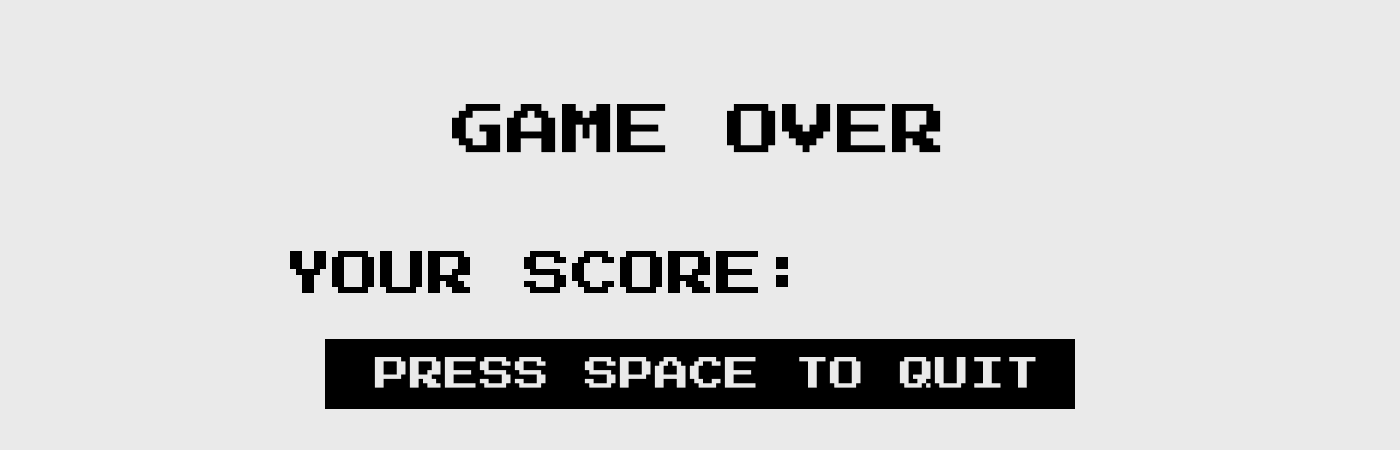
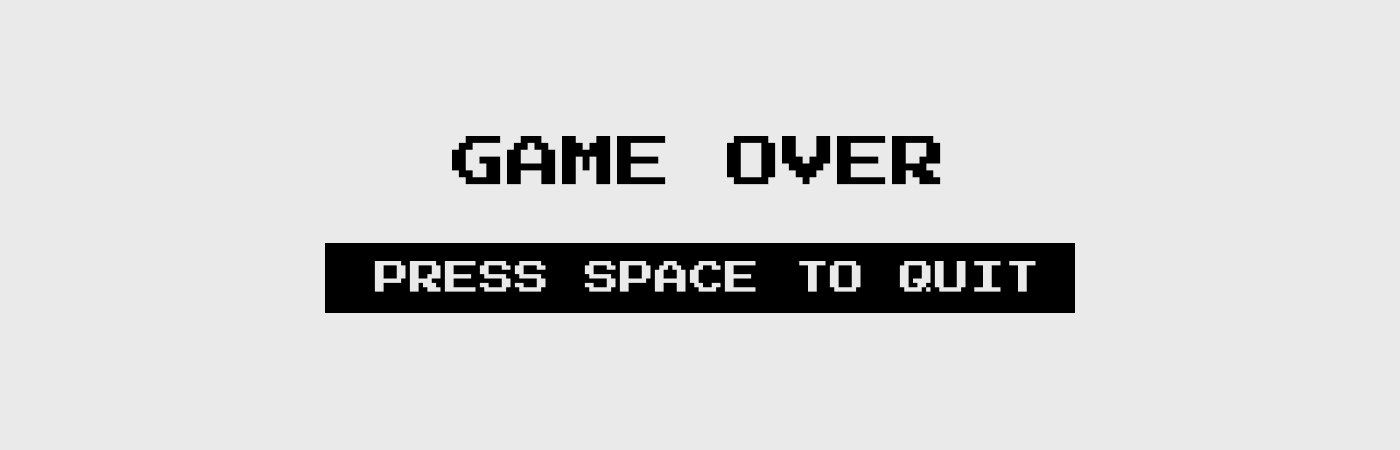
point, ending finished

diff --git a/scene.c b/scene.c
@@ -8,8 +8,10 @@ ALLEGRO_BITMAP *img_catus1 = NULL;
 ALLEGRO_BITMAP *img_catus2 = NULL;
 ALLEGRO_BITMAP *img_floor = NULL;
 ALLEGRO_BITMAP *img_end = NULL;
+ALLEGRO_BITMAP *img_win = NULL;
 ALLEGRO_TIMER *timer;
-
+ALLEGRO_FONT *font_game = NULL;
+ALLEGRO_FONT *font_end = NULL;
 // ALLEGRO_TIMER *timer;
 
 // menu and info
@@ -18,6 +20,7 @@ void menu_init()
     printf("menu init\n");
     img_menu = al_load_bitmap("./asset/menu.png");
     img_info = al_load_bitmap("./asset/information.png");
+    font_game = al_load_font("./font/PressStart.ttf", 24, 0);
 }
 
 void menu_draw()
@@ -51,8 +54,6 @@ void start_game_process(ALLEGRO_EVENT event)
 }
 
 
-
-
 // game scene(floor, cloud, catus, (dino))
 void game_scene_init(){
     printf("game scene init\n");
@@ -72,6 +73,8 @@ void game_scene_draw(){
     // al_draw_bitmap(img_floor, 0, 300, 0);
     // al_draw_bitmap(img_catus1, 700, 300-99, 0);
     // al_draw_bitmap(img_catus2, 800, 300-99, 0);
+    al_draw_textf(font_game, al_map_rgb(83, 83, 83), 1300, 50, ALLEGRO_ALIGN_RIGHT, "score: %d" , score );
+    score++;
     DrawBackground(&FLOOR);
     DrawBackground(&C1);
     DrawBackground(&C2);
@@ -109,10 +112,19 @@ void DrawBackground(struct Background *back){
 // game over window
 void end_game_init(){
     img_end = al_load_bitmap("./asset/game_over.png");
+    img_win = al_load_bitmap("./asset/win.png");
+    font_end = al_load_font("./font/PressStart.ttf", 70, 0);
 }
 
 void end_game_draw(){
     al_draw_bitmap(img_end, 0, 0, 0);
+   // printf("%d", score);
+    //al_draw_textf(font_game, al_map_rgb(83, 83, 83), 1000, 100, ALLEGRO_ALIGN_CENTRE, "score: %d" , score );
+}
+void win_game_draw(){
+    al_draw_bitmap(img_win, 0, 0, 0);
+   // printf("%d", score);
+    //al_draw_textf(font_game, al_map_rgb(83, 83, 83), 1000, 100, ALLEGRO_ALIGN_CENTRE, "score: %d" , score );
 }
 
 void end_game_process(ALLEGRO_EVENT event)
@@ -143,10 +155,12 @@ void game_scene_destroy(){
     al_destroy_bitmap(img_floor);
     al_destroy_bitmap(img_cloud1);
     al_destroy_bitmap(img_cloud2);
+    al_destroy_font(font_game);
     // dino_destroy();
 }
 
 void end_scene_destroy(){
     al_destroy_bitmap(img_end);
+    al_destroy_font(font_end);
     printf("end scene destroy\n");
 }

diff --git a/GameWindow.c b/GameWindow.c
@@ -2,6 +2,7 @@
 
 bool draw = false;
 int window = 1;
+int status = 0;
 // window 1 = menu
 // window 2 = info
 // window 3 = game
@@ -108,8 +109,13 @@ int process_event(){
         //end_game_process(event);
         //*************************************************************
         dino_process(event);
+    }if(window == 4){
+        if (event.type == ALLEGRO_EVENT_KEY_UP){
+            if (event.keyboard.keycode == ALLEGRO_KEY_SPACE){
+                return GAME_TERMINATE;
+            }
+        }
     }
-
 
     // Shutdown our program
     if(event.type == ALLEGRO_EVENT_DISPLAY_CLOSE){
@@ -117,14 +123,17 @@ int process_event(){
     }
 
     else if(event.type == ALLEGRO_EVENT_TIMER){
-        if(event.timer.source == fps) draw = true;
+        if(event.timer.source == fps){
+            draw = true;
+        } 
         UpdateBackground(&FLOOR);
         UpdateBackground(&C1);
         UpdateBackground(&C2);
         cactus_start(cactus, NUM_CACTUS);
         cactus_update(cactus, NUM_CACTUS);
-        cactus_collide(cactus, NUM_CACTUS, &dino);
+        cactus_collide(cactus, NUM_CACTUS);
 		render = true;
+
     }
 
     if(draw) game_update();
@@ -161,11 +170,9 @@ void game_update(){
             judge_to_info = false;
             window = 3;
         }
-
     }
     if(judge_to_end){
         if( window == 3){
-
             judge_to_end = false;
             game_scene_destroy();
             cactus_destroy();
@@ -174,9 +181,15 @@ void game_update(){
         }
     }
     if(window==3){
-            dino_update();
-
+        dino_update();
+        if(dino.life == 1 && score >= LEVEL) {
+            end_game_init();
+            game_scene_destroy();
+            cactus_destroy();
+            window  = 4;
+            status = 1;
         }
+    }
 }
 
 void game_draw(){
@@ -197,7 +210,8 @@ void game_draw(){
         //printf("show game\n");
     }else if( window == 4 ){
         // printf("show game\n");
-        end_game_draw();
+        if(status) win_game_draw();
+        else end_game_draw();
         al_flip_display();
     }
 

diff --git a/character.c b/character.c
@@ -31,8 +31,14 @@ void cactus_init(struct Cactus *c, int size, ALLEGRO_BITMAP *img1, ALLEGRO_BITMA
 		c[i].speed = 5;
 		c[i].boundy_x = 18;
 		c[i].boundy_y = 18;
-        if(i%2) c[i].image = img1;
-        else c[i].image = img2;
+        if(i%2) {
+			c[i].type = 1;
+			c[i].image = img1;
+		}
+        else {
+			c[i].image = img2;
+			c[i].type =0;
+		}
         // printf("%p\n", c[i].image);
 	}
 }
@@ -54,7 +60,11 @@ void cactus_start(struct Cactus *c, int size){
 			{
 				c[i].live = true;
 				c[i].x = WIDTH;
-				c[i].y = 300-90;
+				if(c[i].type){
+					c[i].y = 300-65;
+				}else{
+					c[i].y = 300-85;
+				}
                 //printf("%d\n", c[i].x);
                 //printf("%d\n", c[i].y);
 				break;
@@ -77,7 +87,7 @@ void cactus_collide(struct Cactus *c, int size){
     for(int i = 0; i < size; i++){
 		if(c[i].live)
 		{
-			if(c[i].x - dino.x < dino.boundy_x && c[i].y < dino.y)
+			if(c[i].x -10 <  dino.width && 300-al_get_bitmap_height(c[i].image) < dino.y+dino.height&& c[i].x+al_get_bitmap_width(c[i].image)< 5)
 				// c[i].x + c[i].boundy_x > p[i].boundy_x &&
 				// c[i].y - c[i].boundy_y < p[i].y + p[i].boundy_y &&
 				// c[i].y + c[i].boundy_y > p[i].y - p[i].boundy_y)

diff --git a/global.h b/global.h
@@ -15,11 +15,14 @@
 extern const float FPS;
 extern const int WIDTH;
 extern const int HEIGHT;
+extern int score;
+extern int LEVEL;
 //extern const int NUM_CATUS;
 extern bool key_state[ALLEGRO_KEY_MAX];
 extern bool judge_to_game;
 extern bool judge_to_info;
 extern bool judge_to_end;
+extern bool judge_to_finished_game;
 extern bool render;
 struct Background{
 	float x;
@@ -47,6 +50,7 @@ struct Cactus{
 	int speed;
 	int boundy_x;
 	int boundy_y;
+	int type;
 	ALLEGRO_BITMAP *image;
 };
 extern struct Cactus cactus[NUM_CACTUS];

diff --git a/global.c b/global.c
@@ -1,6 +1,7 @@
 #include "global.h"
 
 // variables for global usage
+enum{low = 200, medium = 500, high = 10000};
 const float FPS = 60.0;
 const int WIDTH = 1400;
 const int HEIGHT = 450;
@@ -12,7 +13,11 @@ bool key_state[ALLEGRO_KEY_MAX] = {false};
 bool judge_to_info = false;
 bool judge_to_game = false;
 bool judge_to_end = false;
+bool judge_to_finished_game = false;
 bool render = false;
+int score = 0;
+int LEVEL = low;
+
 
 struct Background FLOOR;
 struct Background C1;

diff --git a/scene.h b/scene.h
@@ -22,5 +22,7 @@ void game_scene_destroy();
 
 void end_game_init();
 void end_game_process(ALLEGRO_EVENT event);
+//int close_game_process(ALLEGRO_EVENT event);
 void end_game_draw();
+void win_game_draw();
 void end_scene_destroy();
